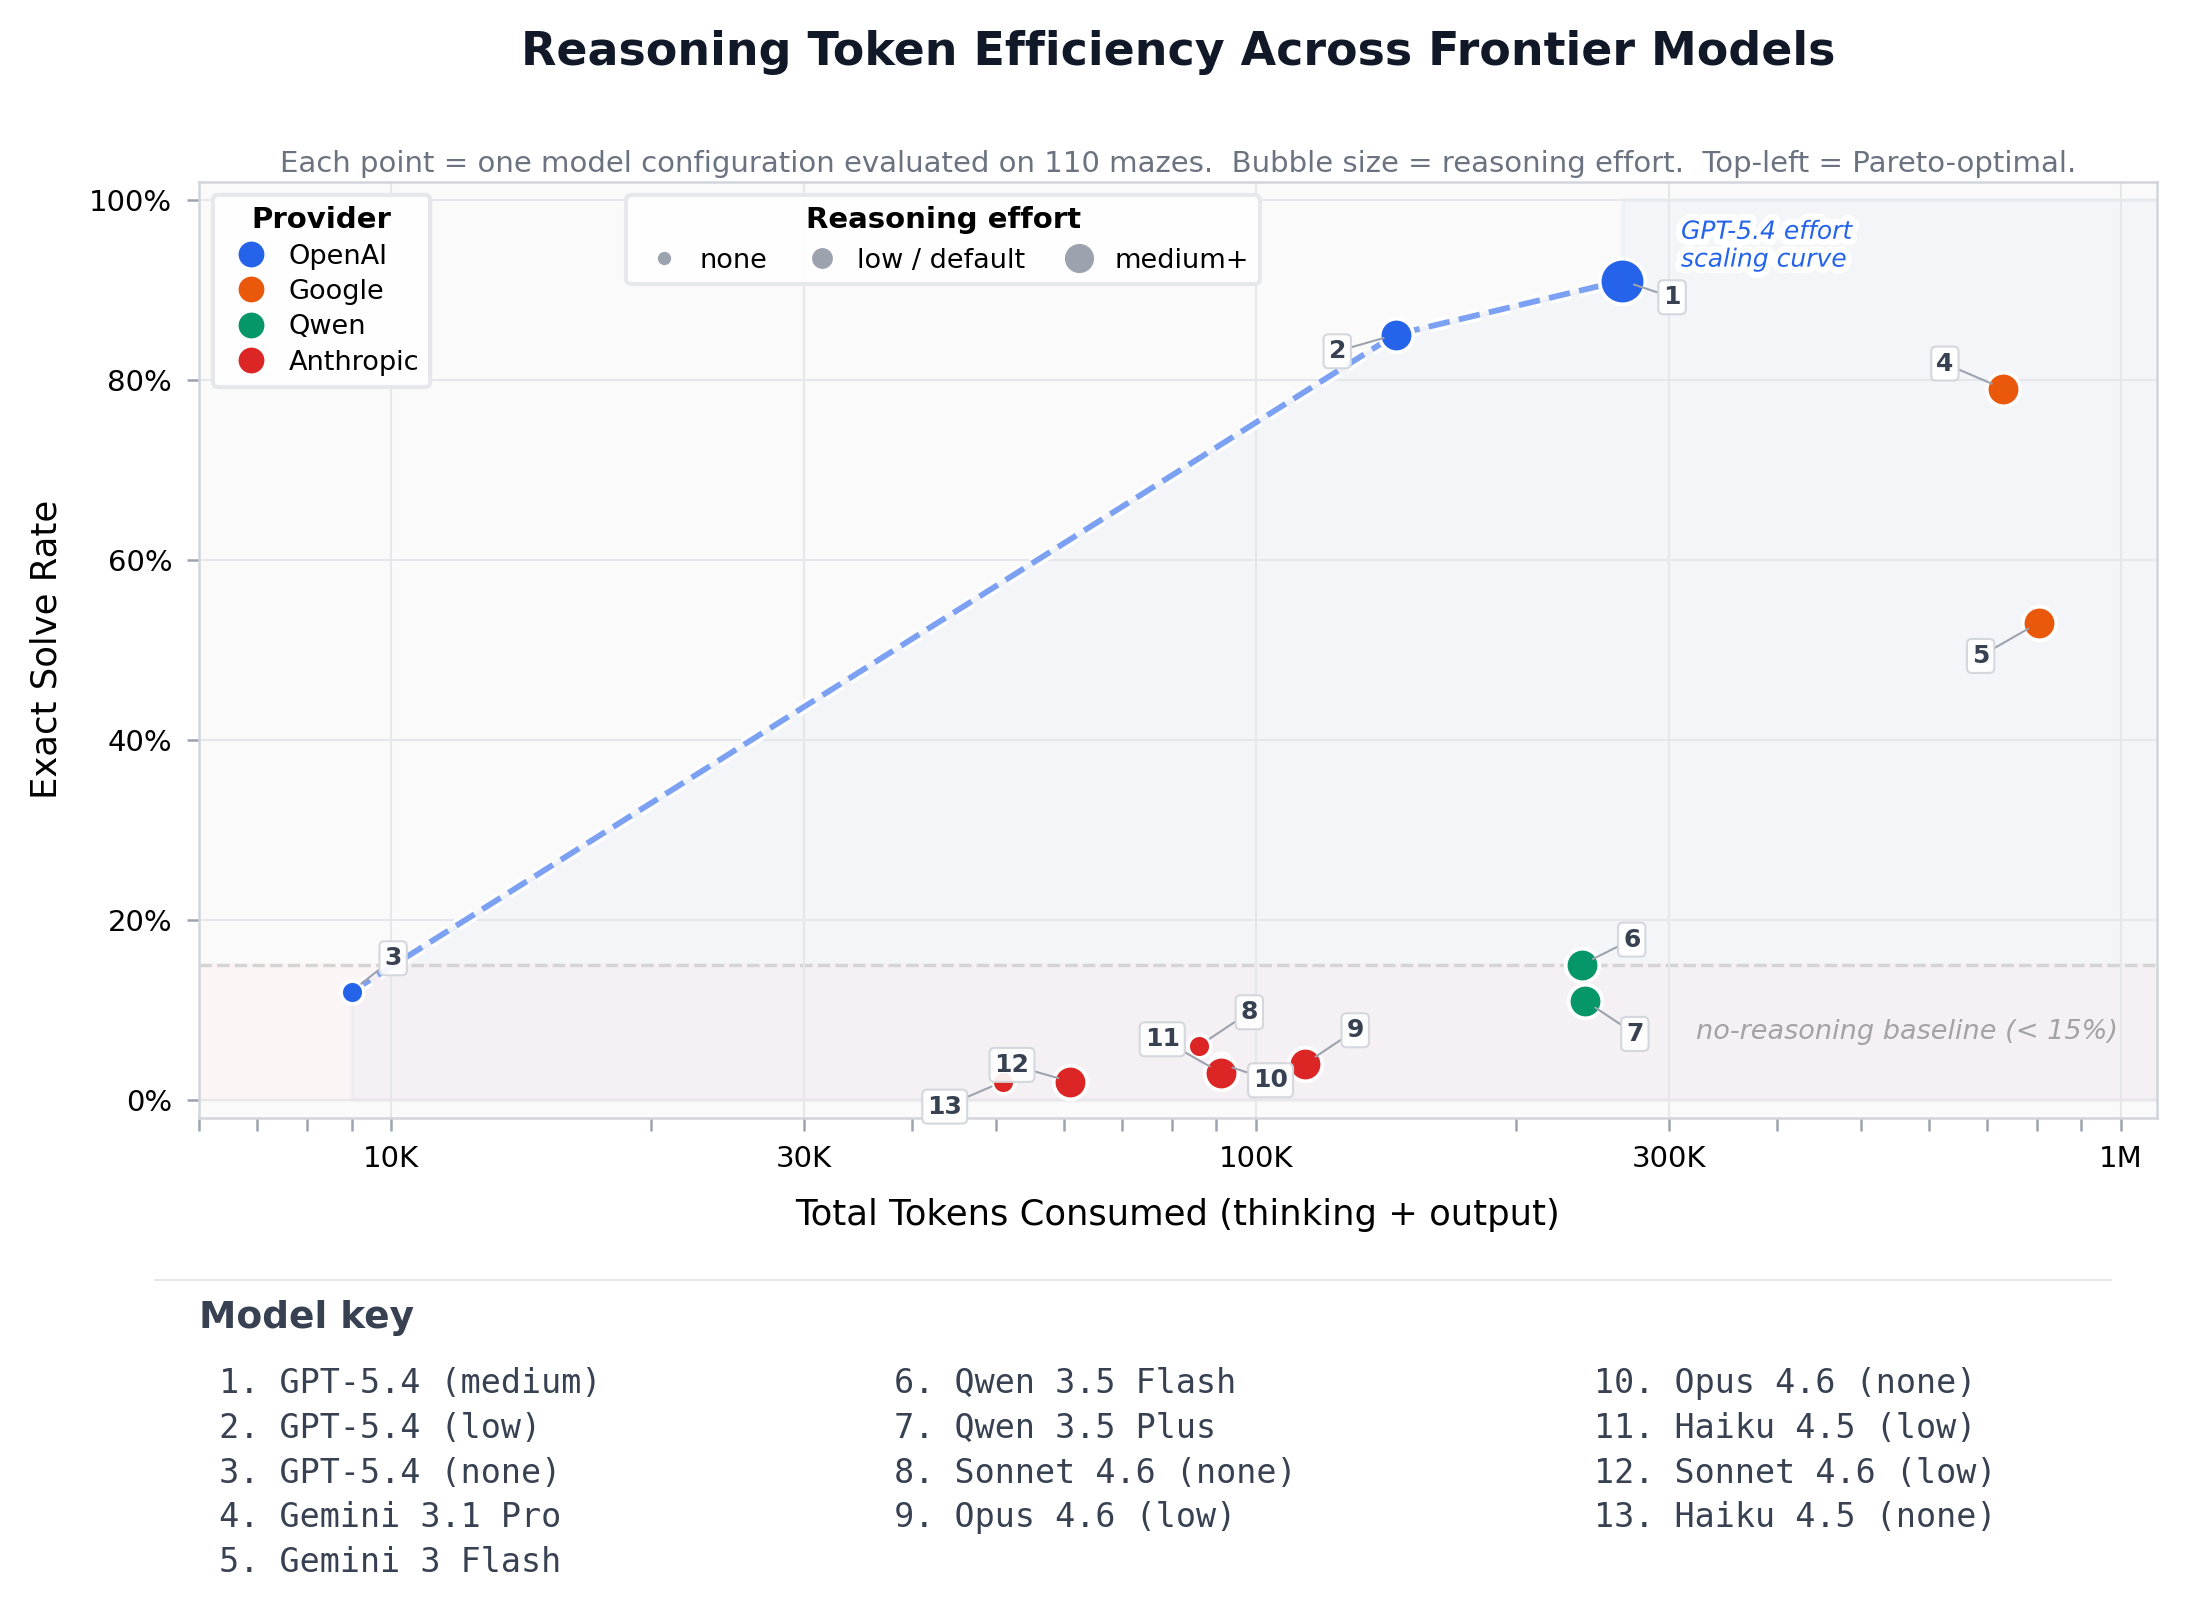
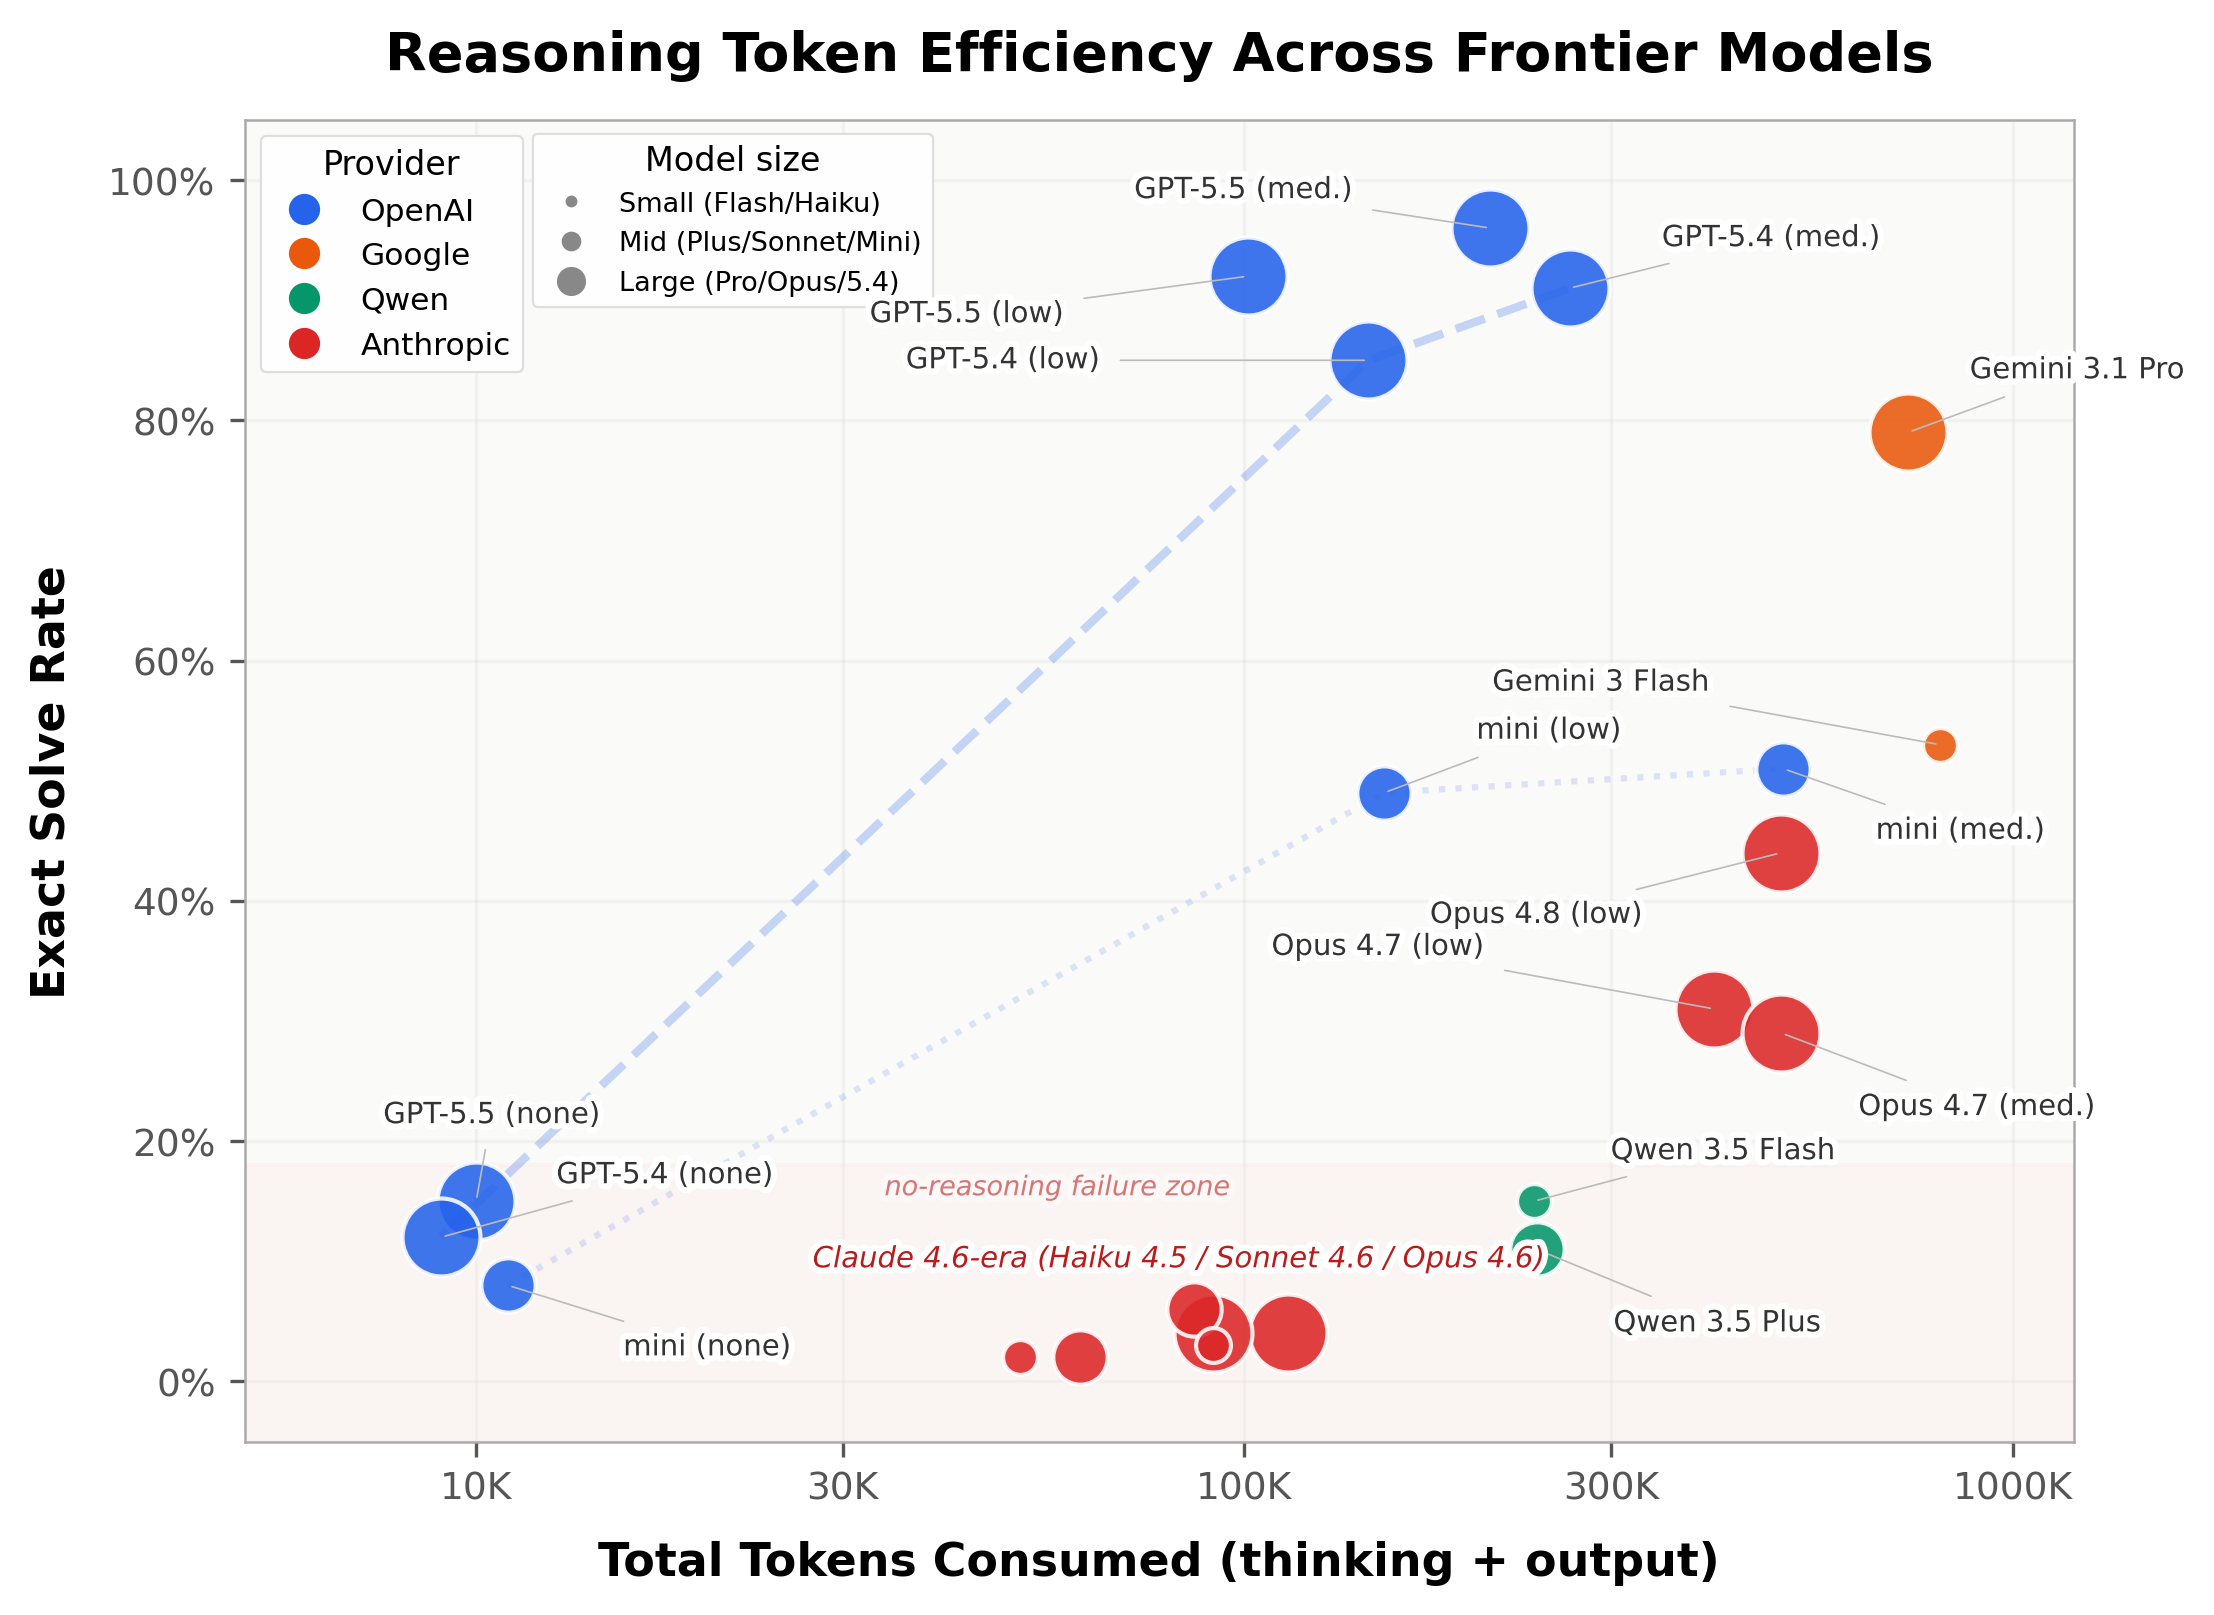
Add Opus 4.8 benchmark results to README

diff --git a/paper/generate_scatter.py b/paper/generate_scatter.py
@@ -12,6 +12,9 @@ OUT = Path(__file__).resolve().parent
 
 # label, display, solved%, tok_K, provider, tier(1-3), reasoning
 MODELS = [
+    ("GPT-5.5 (medium)",       "GPT-5.5 (med.)",       96, 209, "OpenAI",    3, "medium"),
+    ("GPT-5.5 (low)",          "GPT-5.5 (low)",        92, 101, "OpenAI",    3, "low"),
+    ("GPT-5.5 (none)",         "GPT-5.5 (none)",       15,  10, "OpenAI",    3, "none"),
     ("GPT-5.4 (medium)",       "GPT-5.4 (med.)",       91, 265, "OpenAI",    3, "medium"),
     ("GPT-5.4 (low)",          "GPT-5.4 (low)",        85, 145, "OpenAI",    3, "low"),
     ("GPT-5.4 (none)",         "GPT-5.4 (none)",       12,   9, "OpenAI",    3, "none"),
@@ -22,6 +25,9 @@ MODELS = [
     ("Gemini 3 Flash",         "Gemini 3 Flash",       53, 804, "Google",    1, "hidden"),
     ("Qwen 3.5 Plus",          "Qwen 3.5 Plus",        11, 240, "Qwen",      2, "low"),
     ("Qwen 3.5 Flash",         "Qwen 3.5 Flash",       15, 238, "Qwen",      1, "low"),
+    ("Opus 4.8 (low)",         "Opus 4.8 (low)",       44, 499, "Anthropic", 3, "low"),
+    ("Opus 4.7 (low)",         "Opus 4.7 (low)",       31, 409, "Anthropic", 3, "low"),
+    ("Opus 4.7 (medium)",      "Opus 4.7 (med.)",      29, 500, "Anthropic", 3, "medium"),
     ("Opus 4.6 (low)",         None,                    4, 114, "Anthropic", 3, "low"),
     ("Opus 4.6 (none)",        None,                    4,  91, "Anthropic", 3, "none"),
     ("Sonnet 4.6 (none)",      None,                    6,  86, "Anthropic", 2, "none"),
@@ -41,6 +47,9 @@ TIER_SIZE = {1: 70, 2: 170, 3: 350}
 
 # (dx in log10, dy, ha, va) — carefully tuned to avoid ALL overlaps
 LABEL_POS = {
+    "GPT-5.5 (medium)":       (-0.18,   2, "right", "bottom"),
+    "GPT-5.5 (low)":          (-0.24,  -2, "right", "top"),
+    "GPT-5.5 (none)":         ( 0.02,   6, "center", "bottom"),
     "GPT-5.4 (medium)":       ( 0.12,   3, "left",  "bottom"),
     "GPT-5.4 (low)":          (-0.35,   0, "right", "center"),
     "GPT-5.4 (none)":         ( 0.15,   4, "left",  "bottom"),
@@ -51,6 +60,9 @@ LABEL_POS = {
     "Gemini 3 Flash":         (-0.30,   4, "right", "bottom"),
     "Qwen 3.5 Flash":         ( 0.10,   3, "left",  "bottom"),
     "Qwen 3.5 Plus":          ( 0.10,  -5, "left",  "top"),
+    "Opus 4.8 (low)":         (-0.18,  -4, "right", "top"),
+    "Opus 4.7 (low)":         (-0.30,   4, "right", "bottom"),
+    "Opus 4.7 (medium)":      ( 0.10,  -5, "left",  "top"),
 }
 
 
@@ -83,7 +95,7 @@ def build():
 
     # ── Failure zone — very subtle ──
     ax.axhspan(-5, 18, color="#fee2e2", alpha=0.22, zorder=1)
-    ax.text(7, 15.5, "no-reasoning failure zone",
+    ax.text(34, 15.5, "no-reasoning failure zone",
             fontsize=6.5, color="#b91c1c", alpha=0.45,
             fontstyle="italic", path_effects=txt_fx)
 
@@ -120,8 +132,8 @@ def build():
                             lw=0.4, shrinkA=3, shrinkB=1),
         )
 
-    # ── Claude cluster label — simple text above the red dots ──
-    ax.text(82, 9, "Claude (Haiku / Sonnet / Opus)",
+    # ── Claude 4.6-era cluster label — simple text above the red dots ──
+    ax.text(82, 9, "Claude 4.6-era (Haiku 4.5 / Sonnet 4.6 / Opus 4.6)",
             fontsize=7, color="#b91c1c", fontstyle="italic",
             ha="center", va="bottom", path_effects=txt_fx, zorder=6)
 

diff --git a/paper/generate_figures.py b/paper/generate_figures.py
@@ -88,6 +88,9 @@ def build_maze_grid():
 
 MODELS = [
     # label,             display_name,         solved%, tok_K, provider,   reasoning
+    ("GPT-5.5 (medium)", "GPT-5.5 (med.)",     96, 209,  "OpenAI",    "medium"),
+    ("GPT-5.5 (low)",    "GPT-5.5 (low)",      92, 101,  "OpenAI",    "low"),
+    ("GPT-5.5 (none)",   "GPT-5.5 (none)",     15,  10,  "OpenAI",    "none"),
     ("GPT-5.4 (medium)", "GPT-5.4",            91, 265,  "OpenAI",    "medium"),
     ("GPT-5.4 (low)",    "GPT-5.4",            85, 145,  "OpenAI",    "low"),
     ("GPT-5.4 (none)",   "GPT-5.4",            12,   9,  "OpenAI",    "none"),
@@ -95,6 +98,9 @@ MODELS = [
     ("Gemini 3 Flash",   "Gemini 3 Flash",     53, 804,  "Google",    "hidden"),
     ("Qwen 3.5 Flash",   "Qwen 3.5 Flash",    15, 238,  "Qwen",      "low"),
     ("Qwen 3.5 Plus",    "Qwen 3.5 Plus",     11, 240,  "Qwen",      "low"),
+    ("Opus 4.8 (low)",   "Opus 4.8",          44, 499,  "Anthropic", "low"),
+    ("Opus 4.7 (low)",   "Opus 4.7",          31, 409,  "Anthropic", "low"),
+    ("Opus 4.7 (medium)","Opus 4.7",          29, 500,  "Anthropic", "medium"),
     ("Sonnet 4.6 (none)","Sonnet 4.6",          6,  86,  "Anthropic", "none"),
     ("Opus 4.6 (low)",   "Opus 4.6",            4, 114,  "Anthropic", "low"),
     ("Opus 4.6 (none)",  "Opus 4.6",            4,  91,  "Anthropic", "none"),
@@ -120,6 +126,9 @@ REASON_SIZE = {
 # Manual label offsets  (x_mult, y_offset)
 # x_mult multiplies the x coordinate (log space), y_offset adds to y
 LABEL_OFFSETS = {
+    "GPT-5.5 (medium)": (-0.18, 2),
+    "GPT-5.5 (low)":    (-0.24, -2),
+    "GPT-5.5 (none)":   (0.02, 6),
     "GPT-5.4 (medium)": (-0.42, 2),
     "GPT-5.4 (low)":    (-0.35, -6),
     "GPT-5.4 (none)":   (0.2, -7),
@@ -215,7 +224,7 @@ def build_scatter():
     claude_x = [m[3] for m in MODELS if m[4] == "Anthropic"]
     claude_y = [m[2] for m in MODELS if m[4] == "Anthropic"]
     cx, cy = np.mean(claude_x), np.mean(claude_y)
-    ax.annotate("Claude family\n(Opus, Sonnet, Haiku)\n2–6% regardless\nof config",
+    ax.annotate("Claude family\n4.6-era: 2–6%\nOpus 4.7/4.8 improves,\nstill far from GPT-5.5",
                 xy=(cx, cy),
                 xytext=(20, 32),
                 fontsize=7, color="#b91c1c",

diff --git a/README.md b/README.md
@@ -16,6 +16,12 @@
   <a href="https://albertoagentic.com/maze-benchmark.html"><img src="https://img.shields.io/badge/Blog-Post-blue" alt="Blog"></a>
 </p>
 
+## Latest News
+
+- `2026-06-01`: `Claude Opus 4.8` results added. On the 100-maze core set it scores `44/100` at `low` thinking, with `73%` reachability accuracy, `499K` total tokens, and `11,350` tokens per solve. On the 10 ultra-hard mazes it scores `2/10`. The token-efficiency plot above has been refreshed with this run.
+- `2026-04-25`: `GPT-5.5` results added. On the 100-maze core set it scores `15/100` (`none`), `92/100` (`low`), and `96/100` (`medium`). On the 10 ultra-hard mazes it scores `0/10` (`none`) and `4/10` (`medium`).
+- `2026-04-24`: `Claude Opus 4.7` results added. On the 100-maze core set it scores `31/100` (`low`) and `29/100` (`medium`). In the text-grid ablation reported in the paper, `Opus 4.7` reaches `90/100`.
+
 This repository contains MazeBench, a benchmark and dataset for visually grounded maze reasoning with multimodal models. Each model receives only a maze image and a fixed prompt, then must decide whether the treasure is reachable and, if so, return one valid shortest path in JSON.
 
 **Paper:** [From Pixels to BFS: High Maze Accuracy Does Not Imply Visual Planning](https://arxiv.org/abs/2603.26839)